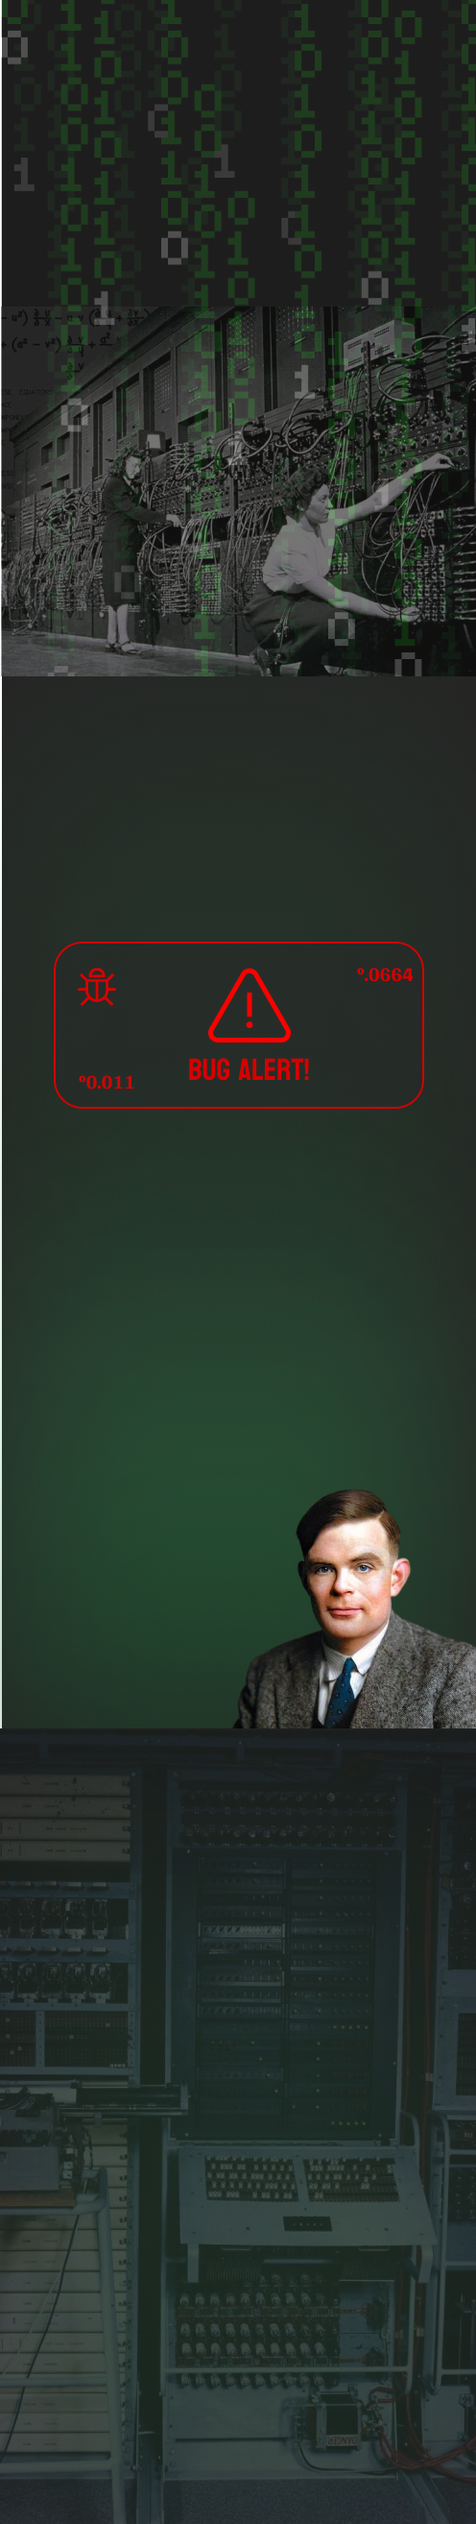
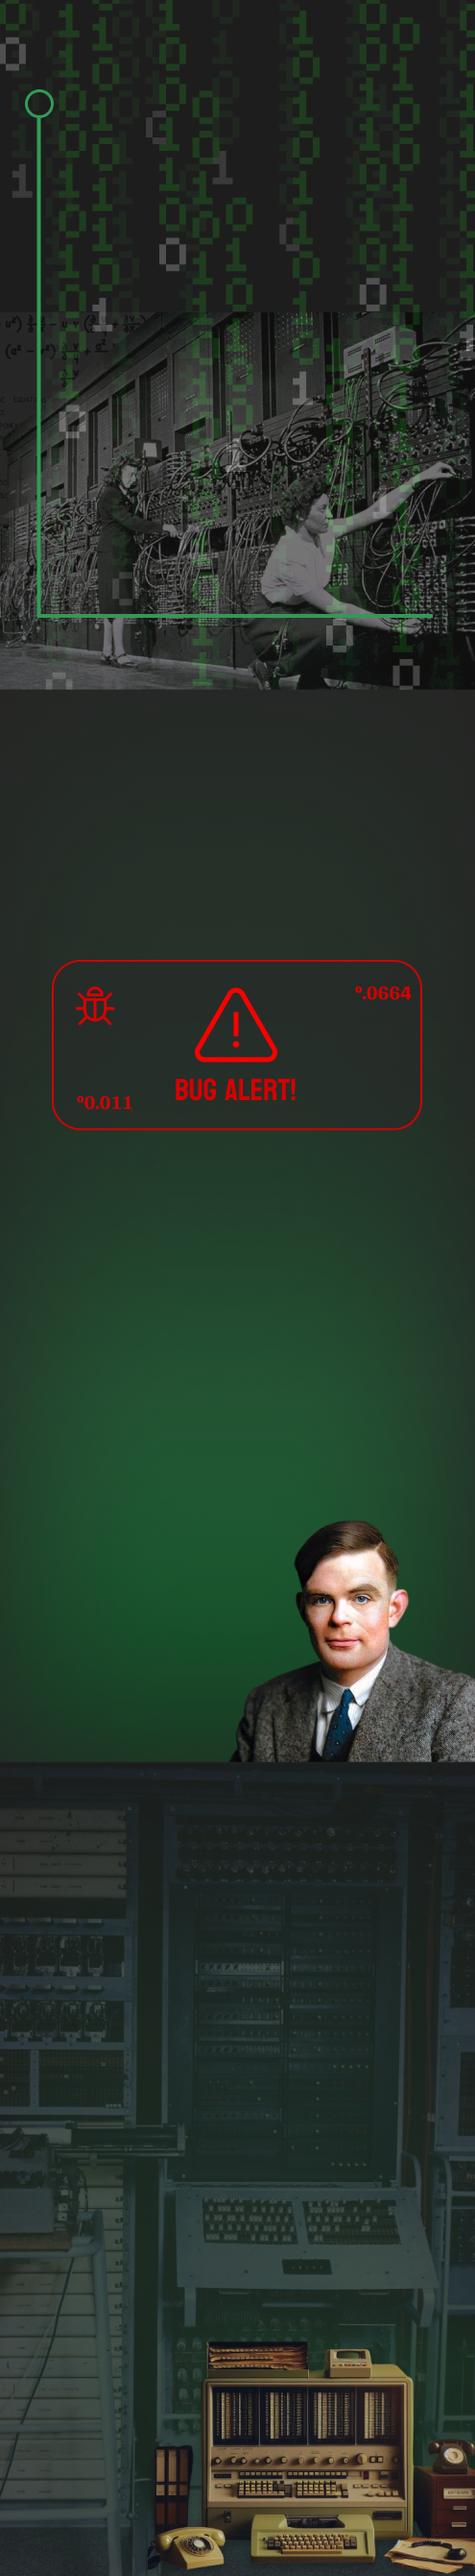
add: Gen1 Timeline

diff --git a/src/app/timeline/gen1/page.tsx b/src/app/timeline/gen1/page.tsx
@@ -1,0 +1,90 @@
+import LineTitle from "@/components/base/line-title";
+import Timeline from "@/components/struct/Timeline";
+import { Button } from "@/components/base/button";
+import { Line } from "@/components/base/line";
+import Link from 'next/link';
+// Improt font form google
+import { Montserrat } from "next/font/google";
+
+const montserrat = Montserrat({
+  weight: '500',
+  preload: false,
+});
+
+const AncestorsPage = () => {
+  return (
+    <main 
+      className={`pt-4 lg:border-x lg:border-b lg:p-4 ${montserrat.className}`}
+    >
+      <LineTitle>
+        1º Ancestrais
+      </LineTitle>
+      <Line />
+
+      <Timeline
+        bg="bg-timeline3"
+        tokens="h-[2680px] text-white text-2xl leading-10"
+      >
+        <div className="pt-[58px] pl-[48px]">
+          <h3>
+            ENIAC (1945)
+          </h3>
+          <p>
+          Foi o primeiro computador eletrônico de grande escala. Utilizando válvulas eletrônicas, revolucionou ao realizar cálculos de forma mais rápida e eficiente.
+          <br></br>
+          <br></br>
+          Podia ser programado através de um conjunto complexo de interruptores e cabos, o que exigia uma grande quantidade de trabalho manual para alterar sua funcionalidade.
+          </p>
+        </div>
+
+        <div className="pt-[145px] pl-[48px]">
+          <h3 className="">
+            A partir daqui  a computação não foi mais a mesma...
+          </h3>
+          <p>
+            Inovações como:
+          </p>
+          <ol>
+            <li> Programação Manual</li>
+            <li> Armazenando Eletronicamente</li>
+            <li> Cálculos Avançados</li>
+          </ol>
+        </div>
+
+        <div className="pt-[230px] pl-[48px]">
+          <h3 className="">
+            Colossus I (1943)
+          </h3>
+          <p>
+          Entrou em operação em e desempenhou um papel crucial na decifração dos códigos de comunicação alemães. Sua arquitetura inovadora, utilizando válvulas eletrônicas.
+          Além de influenciar o campo da criptoanálise e da tecnologia da informação.
+          </p>
+        </div>
+
+        <div className="pt-[260px] pl-[28px]">
+          <h3 className="">
+            Colossus II (1944)
+          </h3>
+          <p>
+            Implementação de uma arquitetura paralela, permitindo que várias tarefas fossem realizadas simultaneamente. Além disso, capacidade de processamento aprimorada, com velocidade e eficiência aprimoradas. O design do Colossus Mark II também foi simplificado em comparação com o Colossus original, o que ajudou a melhorar sua confiabilidade e facilidade de manutenção.
+          </p>
+        </div>
+
+        <div className="pt-[240px]">
+
+          <Link href="/timeline">
+            <Button 
+              className="w-full"
+              variant="secondary"
+            >
+              Concluir Capítulo
+            </Button>
+          </Link>
+
+        </div>
+      </Timeline>
+    </main>
+  );
+};
+
+export default AncestorsPage;

diff --git a/src/app/timeline/page.tsx b/src/app/timeline/page.tsx
@@ -10,13 +10,21 @@ const Timeline = () => {
       </LineTitle>
       <Line />
 
-      <div className="flex justify-center">
+      <div className="flex justify-center gap-4 flex-wrap">
         <ChapCard
           name="1º - Ancestrais"
           info="5.500 AC"
           desc="Primeiros máquinas de cálculo"
           img="https://img.freepik.com/fotos-premium/abaco-de-madeira-velho-e-antigo-para-contar-e-calcular_1831-703.jpg"
           pathPage="timeline/ancestors"
+        />
+
+        <ChapCard
+          name="3º - Primeira Geração"
+          info="1943"
+          desc="Computadores eletrônicos"
+          img="https://www.cnnbrasil.com.br/wp-content/uploads/sites/12/2021/06/26776_1798DEE935286D54.jpg"
+          pathPage="timeline/gen1"
         />
       </div>
       <Line />

diff --git a/tailwind.config.ts b/tailwind.config.ts
@@ -74,7 +74,15 @@ const config = {
       },
       // Background com imagem for any timeline item
       backgroundImage: {
-        "timeline1": "url('https://computers-lore.vercel.app/assets/bg/timeline1.png')",
+        "timeline1": 
+        "url('https://computers-lore.vercel.app/assets/bg/timeline1.png')",
+
+        "timeline3":
+        "url('https://computers-lore.vercel.app/assets/bg/timeline3.png')",
+        
+        // gen1-t
+        "timeline3-t": 
+        "url('http://localhost:3000/assets/bg/timeline3.png')",
       },
       // To use: bg-timeline1
     },
